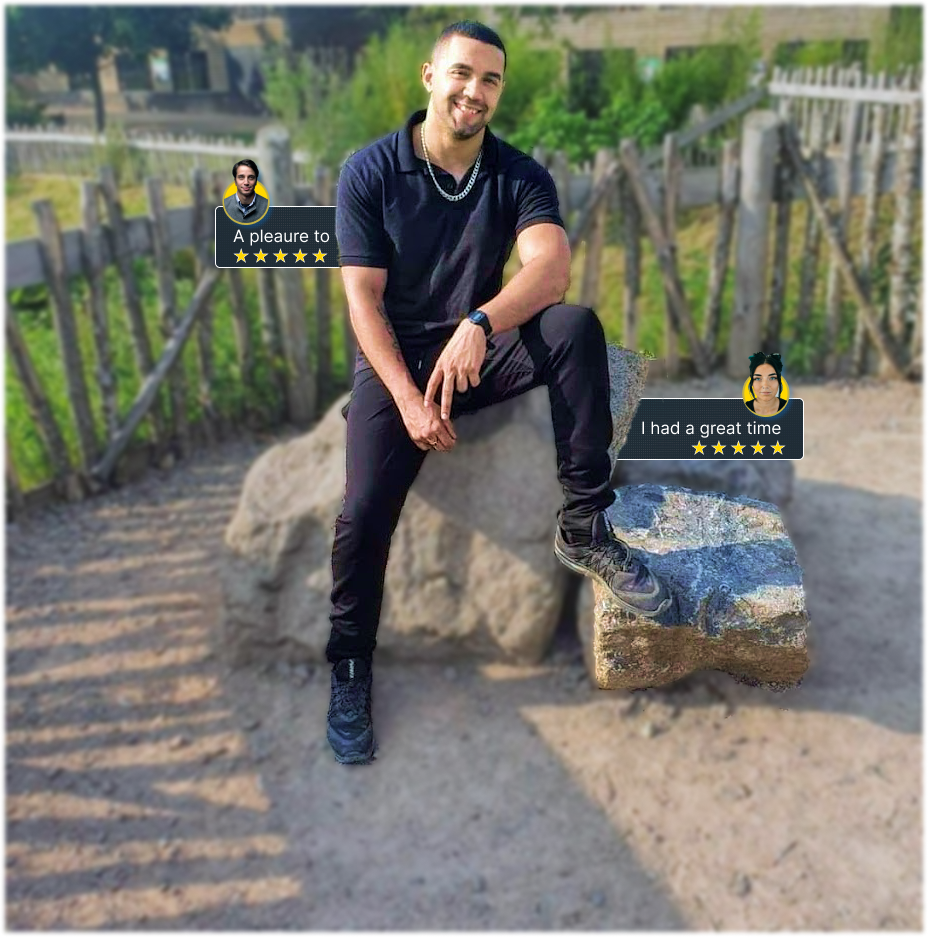
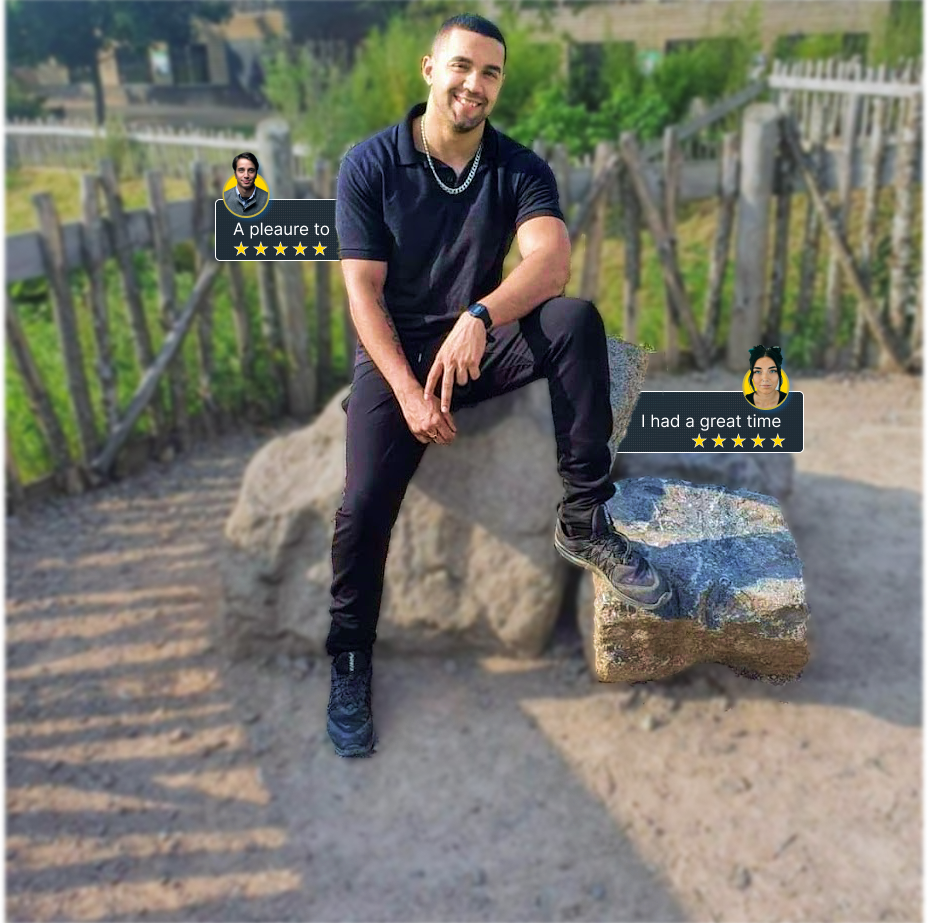
updated project page, also trimmed my picture to fit better

diff --git a/pages/Projects.js b/pages/Projects.js
@@ -40,17 +40,9 @@ const Projects = ({ latestWorkImg }) => {
         <link rel="icon" href="/images/greyback.png" />
       </Head>
       <HomeHero
-        LeftSectionIMG={'url("/images/whiteMarbleTexture.jpg")'}
-        RightSectionIMG={'url("/images/whiteWavesTexture.jpg")'}
-        heading={
-          <h1
-            style={{ fontSize: "4rem", color: "#23C7A7", marginBottom: "40px" }}
-          >
-            My Projects
-          </h1>
-        }
-        show3D={true}
-        paragraph={`Check out my recent projects and learn how to create your own along the way with my free articles when you sign up, after years of experience designing and coding websites i show the best route to creating unique, user friendly and accessaible web application's `}
+        leftImg={"/images/dotted-bg.jpeg"}
+        paragraph={`Welcome to my portfolio! My name is Jordan and I am a Web Designer,Developer and Coach. I have been working in this field for 3 year and have developed a strong set of skills and experience. In this portfolio, you will find examples of my work and accomplishments. Thank you for taking the time to visit my page. I look forward to sharing my portfolio with you.
+      `}
       />
       <LogoList />
       <ProjectAndText

diff --git a/Components/ImageComponent/TestimonialImageComp.js b/Components/ImageComponent/TestimonialImageComp.js
@@ -1,13 +1,16 @@
 import Image from "next/image";
+import Link from "next/link";
 import styled from "./Testimonial.module.css";
 const TestimonialImageComp = ({ src, top, right, delay }) => {
   return (
-    <span
-      className={styled.Container}
-      style={{ right: right, top: top, zIndex: 10, animationDelay: delay }}
-    >
-      <Image height="94px" width="223px" alt="Initials" src={src} />
-    </span>
+    <Link href={"/Tutor"}>
+      <span
+        className={styled.Container}
+        style={{ right: right, top: top, zIndex: 10, animationDelay: delay }}
+      >
+        <Image height="94px" width="223px" alt="Initials" src={src} />
+      </span>
+    </Link>
   );
 };
 

diff --git a/pages/Community.js b/pages/Community.js
@@ -6,7 +6,7 @@ const Community = () => {
     <div>
       <Head>
         <title>Community - Jordan Freelance</title>
-        <meta name="description" content="Generated by create next app" />
+        <meta name="description" content="Kzee" />
         <link rel="icon" href="/images/greyback.png" />
       </Head>
       <CommunityHero />
